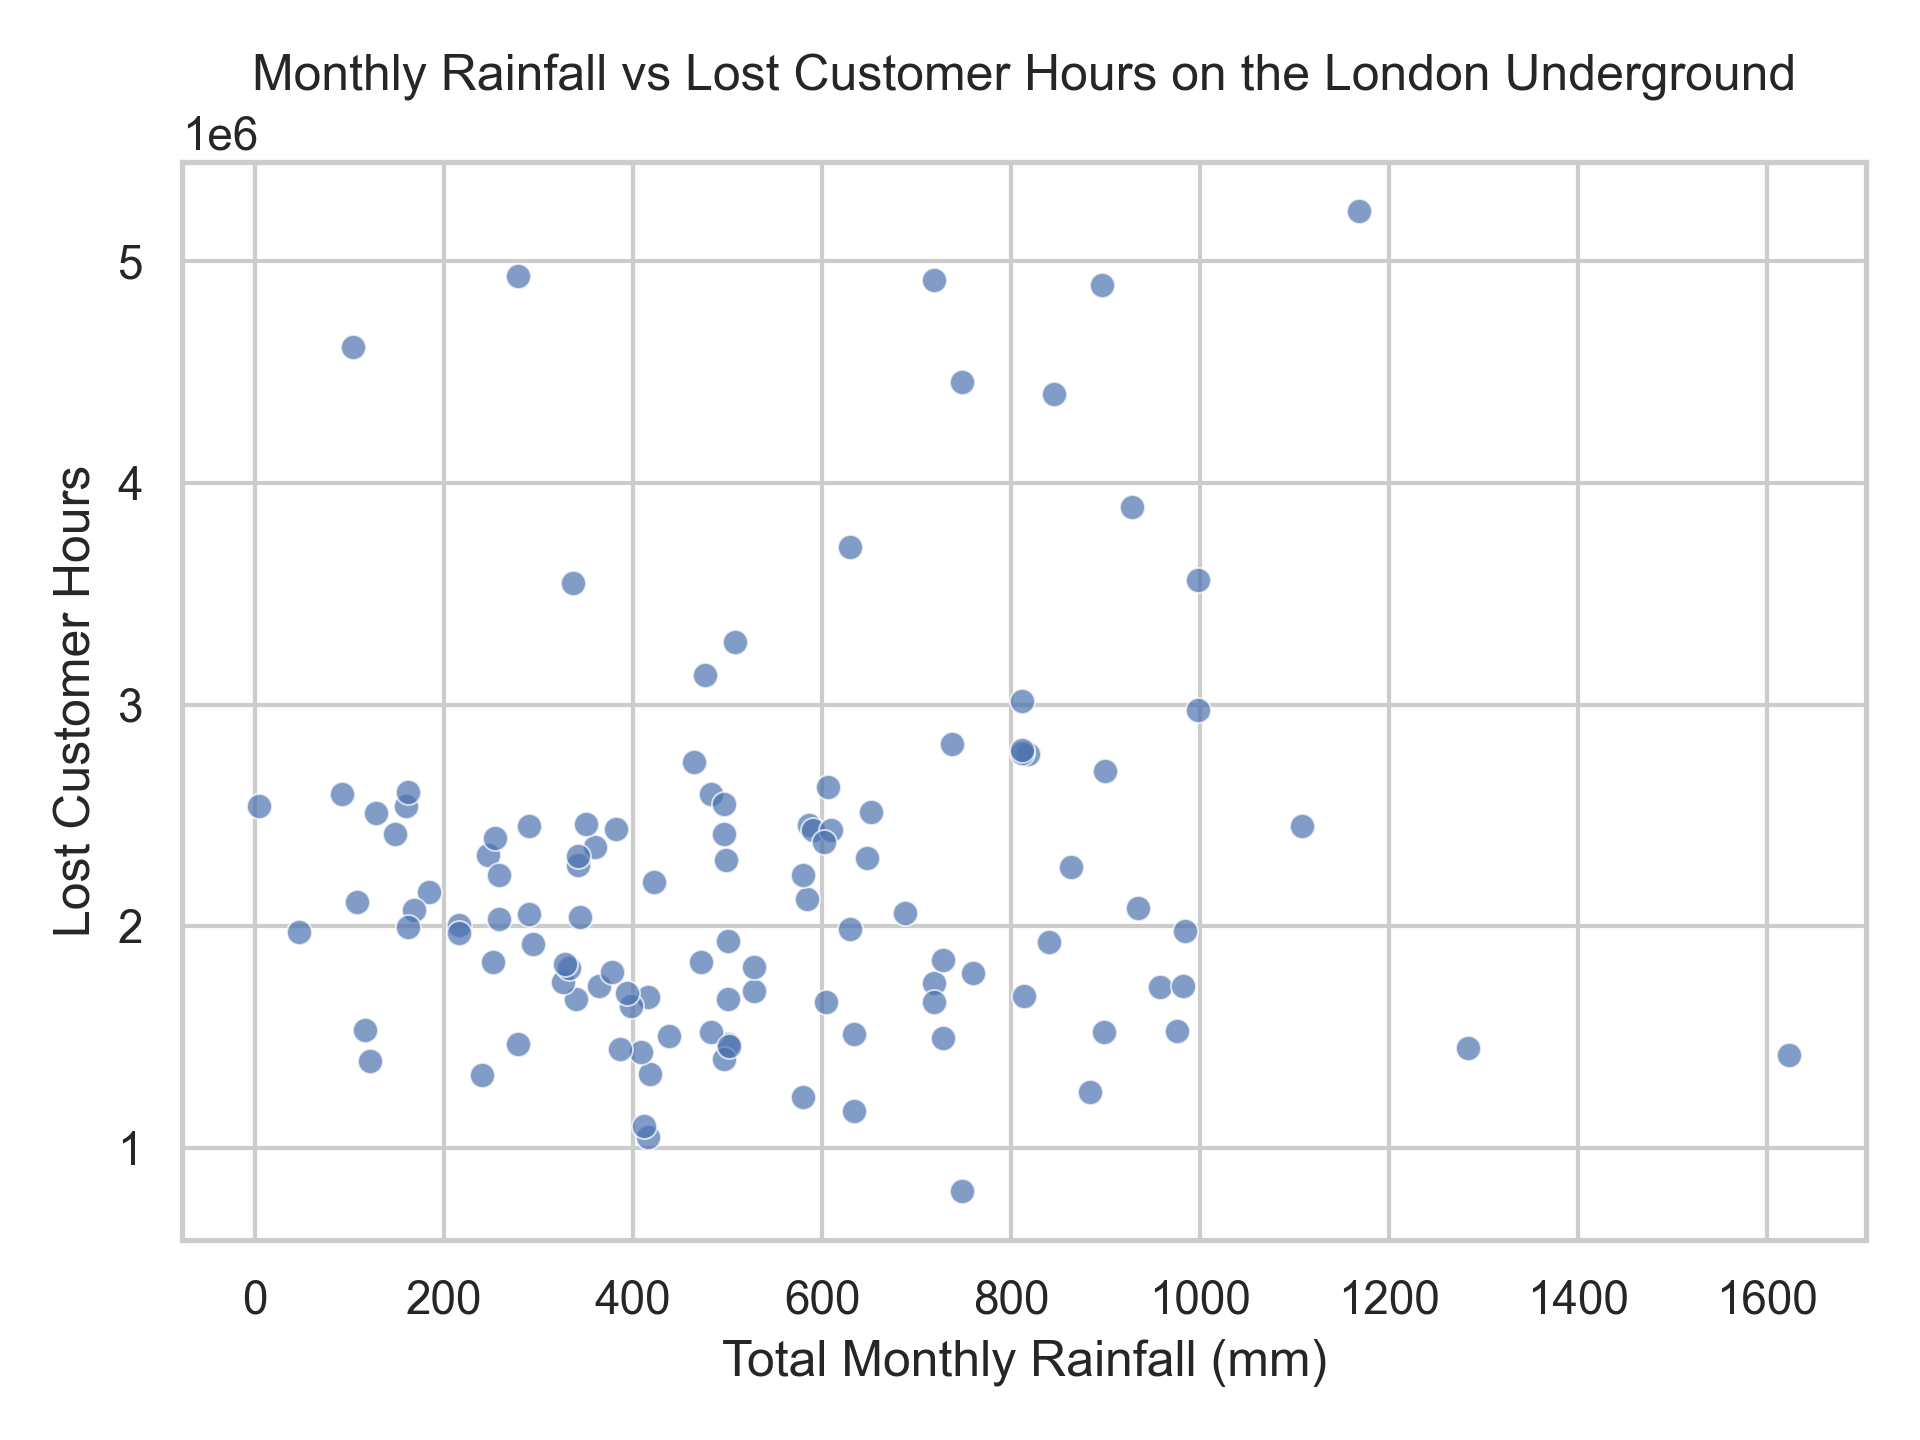
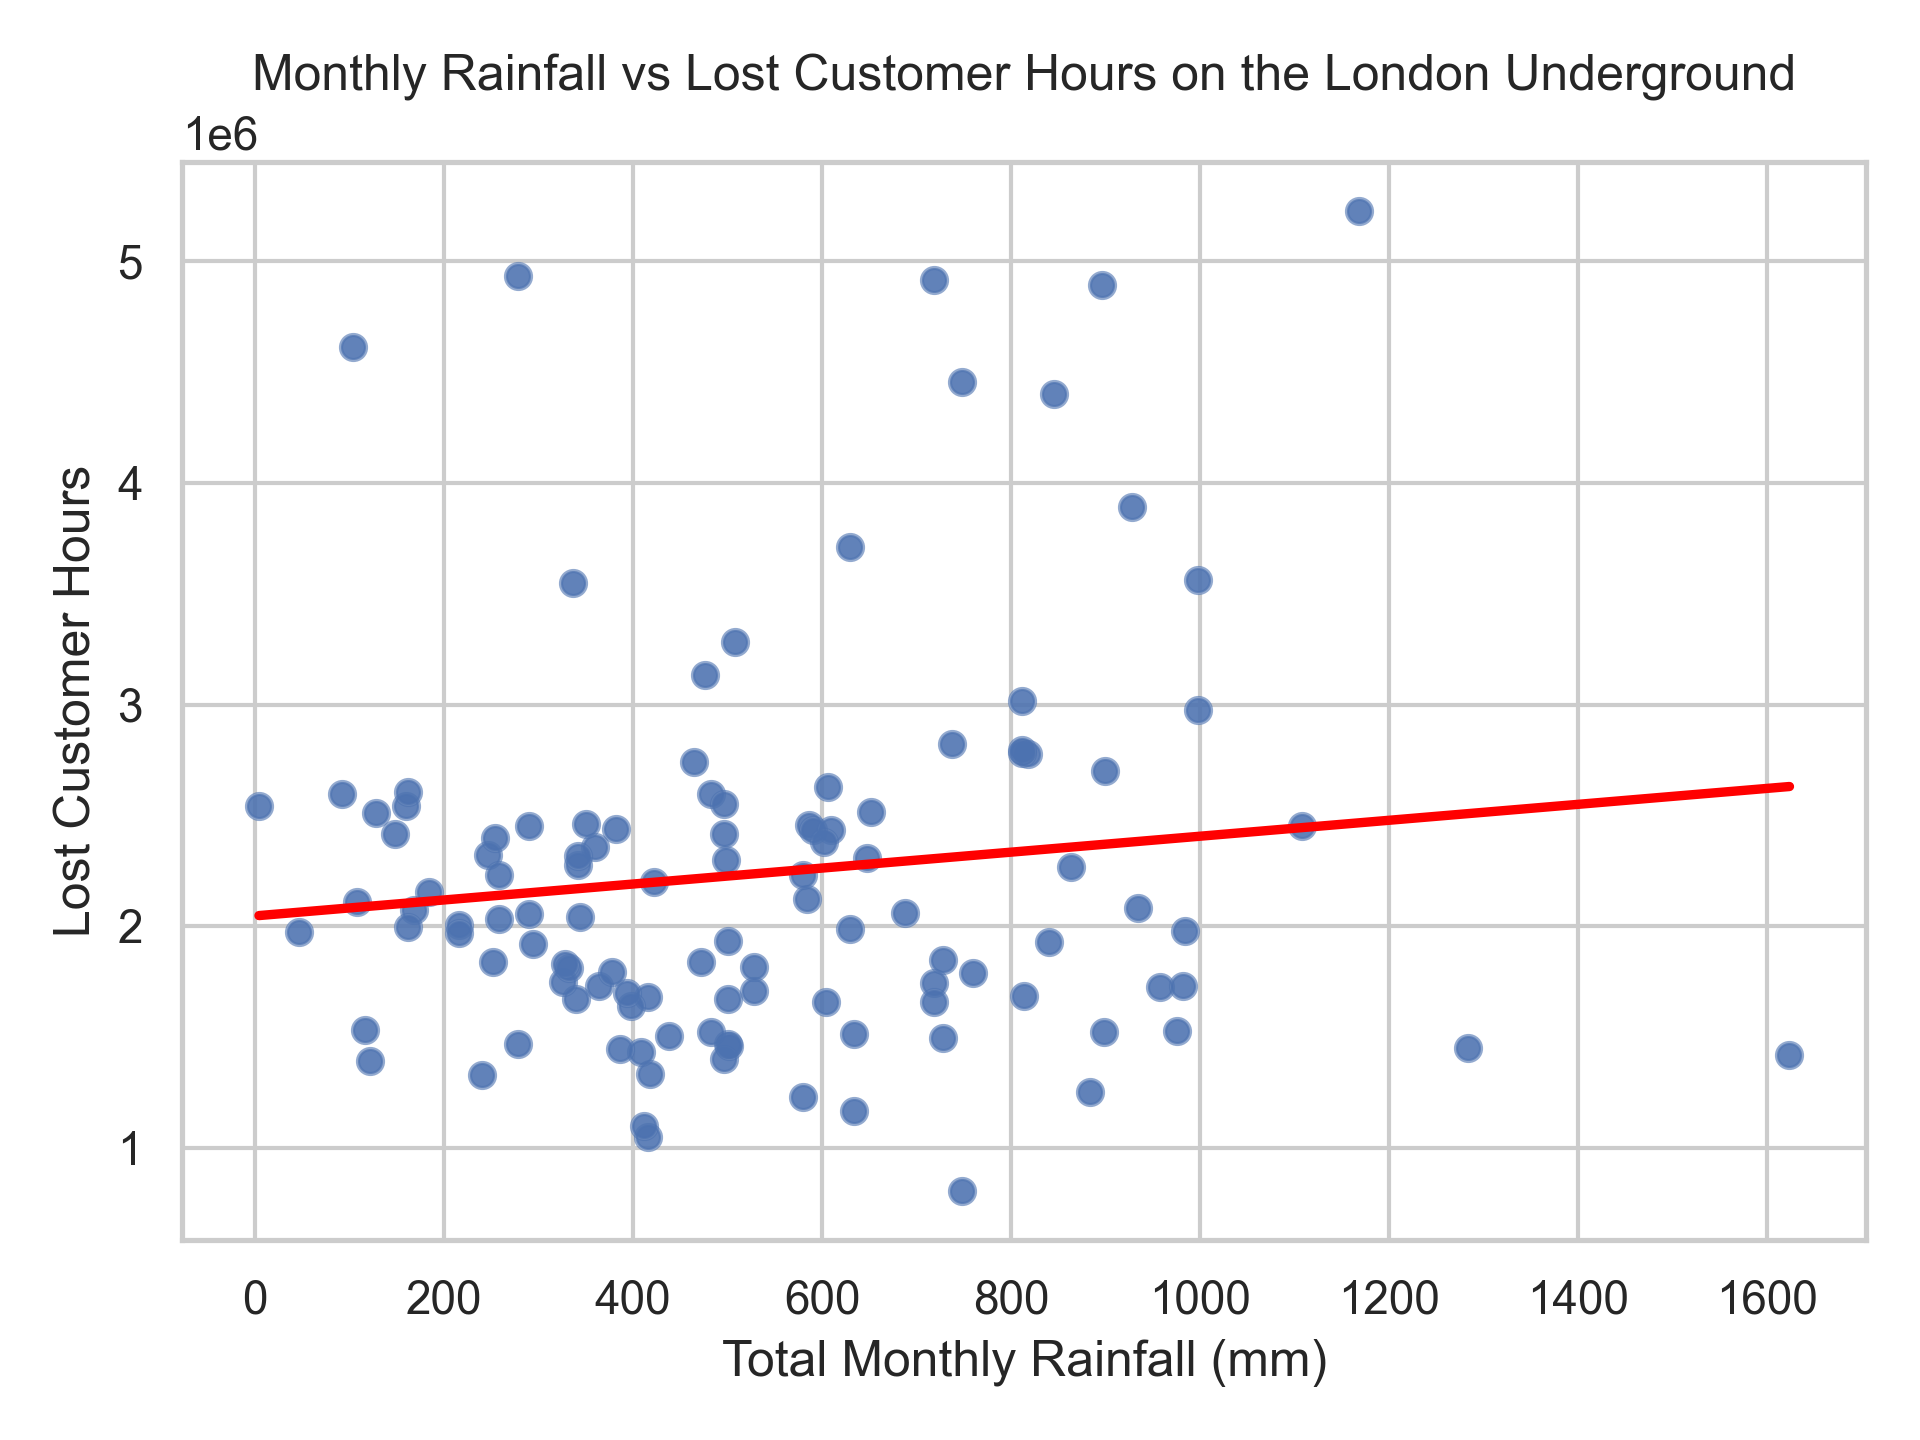
adding trend line to monthly_rainfall_vs_lost_customer_hours.png

diff --git a/eda.py b/eda.py
@@ -27,6 +27,15 @@ sns.scatterplot(
     alpha=0.7
 )
 
+sns.regplot(
+    data=final_df,
+    x="RR_sum",
+    y="lost_customer_hours",
+    scatter_kws={"alpha": 0.6},
+    line_kws={"color": "red"},
+    ci=None
+)
+
 plt.title("Monthly Rainfall vs Lost Customer Hours on the London Underground")
 plt.xlabel("Total Monthly Rainfall (mm)")
 plt.ylabel("Lost Customer Hours")
